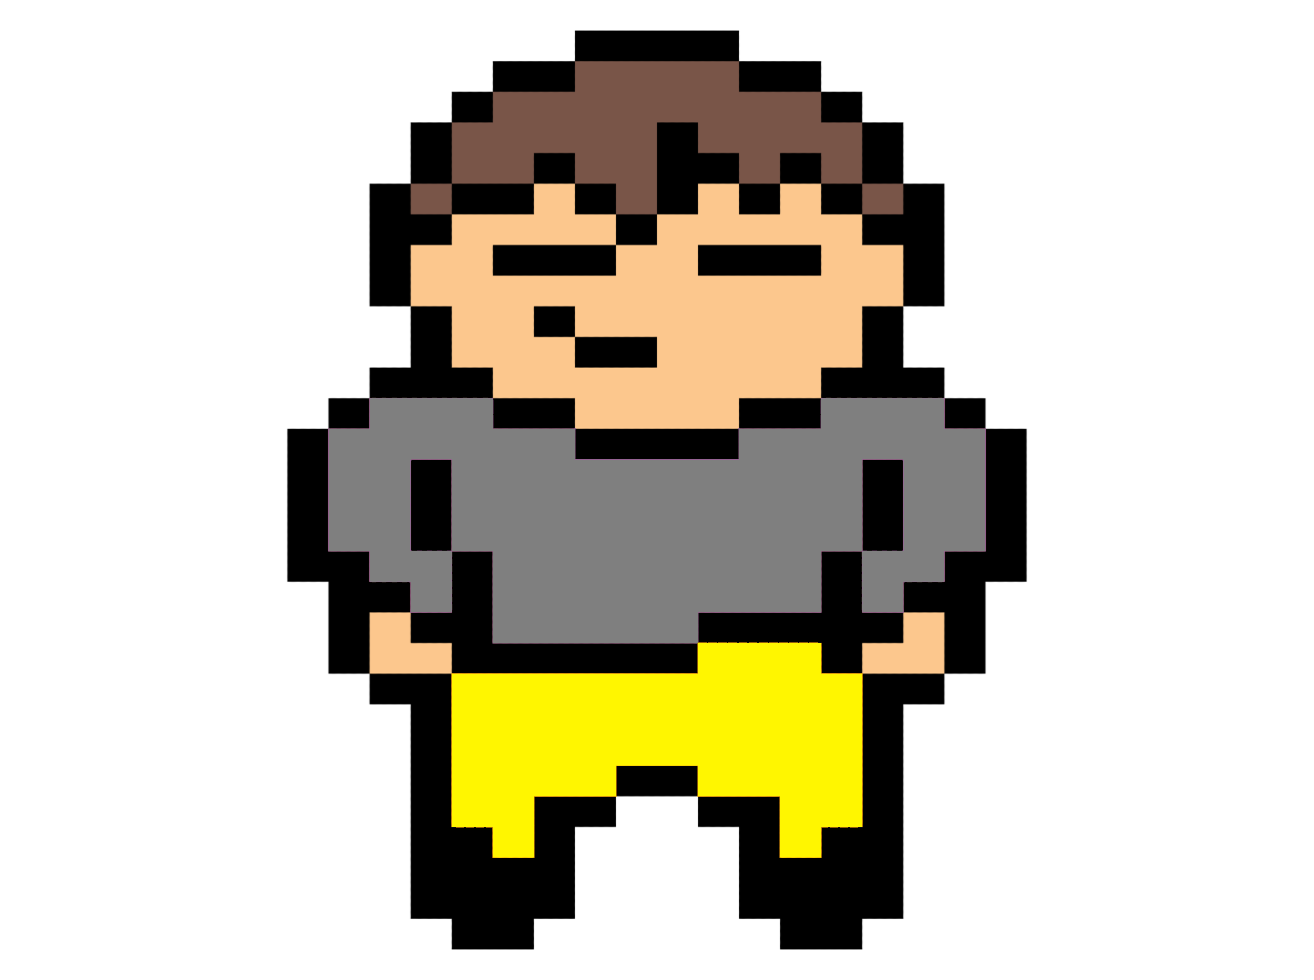
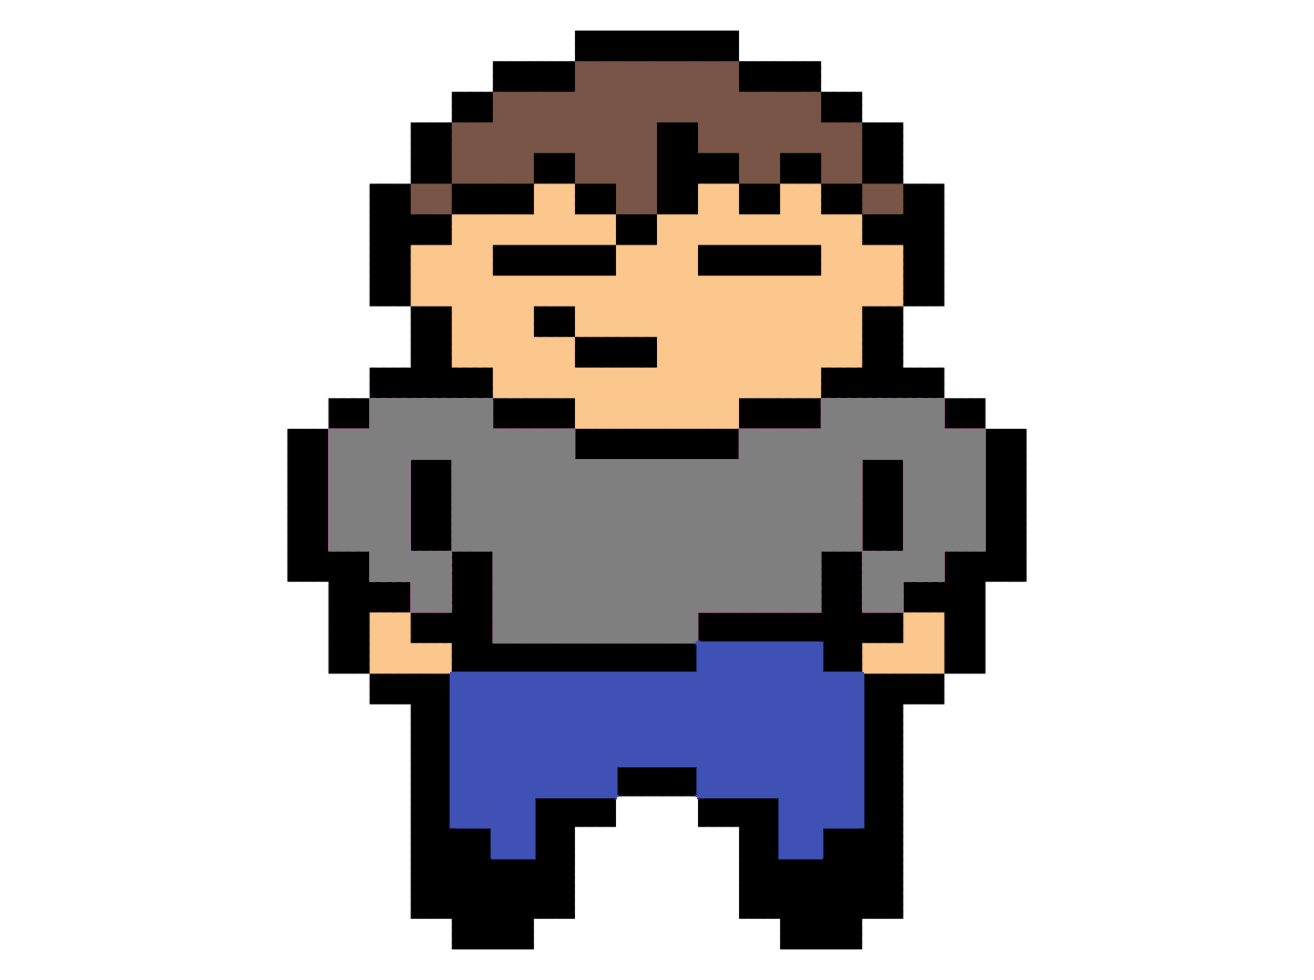
Npc + objetos

Changed region(s): [[0.3432, 0.6429, 0.6553, 0.8878]]

diff --git a/spain/js/js.js b/spain/js/js.js
@@ -275,7 +275,7 @@ document.addEventListener('keydown', function(event) {
 
     function handleMovement3(newRow,newCol){
         if (isValidMove(newRow, newCol)) {
-            if (gameMap[newRow][newCol] === 5) {
+            if (gameMap[newRow][newCol] === 10) {
                 if (hasReloj) {
                     hasReloj = false;
                     missio2 = true;
@@ -459,28 +459,29 @@ document.addEventListener('keydown', function(event) {
 
     createGrid(numCols);
 
-    /*----------------------------------MATRIUS----------------------------------------------*/
+/*----------------------------------MATRIU----------------------------------------------*/
 
+    /* 4-6-9 (personas extra) / 3-5-8 (personas) / 2-7-10 (objectes)*/
     let gameMap = [
-        [1, 1, 0, 1, 1, 1, 1, 1, 0, 1, 1, 1, 1, 0, 1, 1, 1, 1, 1, 0, 1, 1, 1, 1, 0, 1, 1, 1, 1, 1, 0, 1, 1],
-        [1, 1, 0, 1, 1, 1, 1, 1, 0, 0, 0, 0, 0, 0, 1, 1, 1, 1, 1, 0, 0, 0, 0, 0, 0, 1, 1, 1, 1, 1, 0, 0, 1],
+        [1, 1, 0, 1, 1, 1, 1, 1, 0, 1, 1, 1, 1, 9, 1, 1, 1, 1, 1, 4, 1, 1, 1, 1, 6, 1, 1, 1, 1, 1, 0, 1, 1],
+        [1, 1, 0, 1, 1, 1, 1, 1, 0, 0, 4, 0, 0, 0, 1, 1, 1, 1, 1, 0, 0, 0, 0, 0, 0, 1, 1, 1, 1, 1, 0, 0, 1],
         [1, 0, 0, 1, 1, 1, 1, 1, 0, 1, 1, 1, 1, 0, 1, 1, 1, 1, 1, 0, 1, 1, 1, 1, 0, 1, 1, 1, 1, 1, 0, 1, 1],
-        [1, 1, 1, 1, 1, 1, 1, 1, 0, 1, 1, 1, 1, 0, 1, 1, 1, 1, 1, 0, 1, 1, 1, 1, 4, 1, 1, 1, 1, 1, 0, 1, 1],
-        [1, 1, 0, 0, 0, 0, 0, 0, 0, 1, 1, 1, 1, 4, 0, 0, 0, 0, 0, 0, 1, 1, 1, 1, 0, 0, 0, 0, 0, 0, 0, 1, 1],
+        [1, 1, 1, 1, 1, 1, 1, 1, 0, 1, 1, 1, 1, 0, 1, 1, 1, 1, 1, 0, 1, 1, 1, 1, 0, 1, 1, 1, 1, 1, 9, 1, 1],
+        [1, 1, 0, 0, 0, 0, 0, 0, 0, 1, 1, 1, 1, 0, 0, 0, 0, 0, 0, 0, 1, 1, 1, 1, 0, 0, 0, 0, 0, 0, 0, 1, 1],
         [1, 1, 0, 1, 1, 1, 1, 1, 0, 1, 1, 1, 1, 0, 1, 1, 1, 1, 1, 0, 1, 1, 1, 1, 0, 1, 1, 1, 1, 1, 0, 1, 1],
         [1, 1, 0, 1, 1, 1, 1, 1, 0, 1, 1, 1, 1, 0, 1, 1, 1, 1, 1, 0, 1, 1, 1, 1, 0, 1, 1, 1, 1, 1, 0, 1, 1],
-        [1, 0, 0, 1, 1, 1, 1, 1, 2, 0, 0, 0, 0, 0, 1, 1, 1, 1, 1, 4, 0, 0, 0, 0, 0, 1, 1, 1, 1, 1, 0, 0, 1],
-        [1, 1, 0, 1, 1, 1, 1, 1, 0, 1, 1, 1, 1, 3, 1, 1, 1, 1, 1, 0, 1, 1, 1, 1, 0, 1, 1, 1, 1, 1, 0, 1, 1],
-        [1, 1, 0, 1, 1, 1, 1, 1, 0, 1, 1, 1, 1, 0, 1, 1, 1, 1, 1, 0, 1, 1, 1, 1, 0, 1, 1, 1, 1, 1, 6, 1, 1],
-        [1, 1, 0, 1, 1, 1, 1, 1, 0, 1, 1, 1, 1, 0, 1, 1, 1, 1, 1, 6, 1, 1, 1, 1, 0, 1, 1, 1, 1, 1, 0, 1, 1],
+        [1, 4, 0, 1, 1, 1, 1, 1, 2, 0, 0, 0, 0, 0, 1, 1, 1, 1, 1, 0, 0, 0, 9, 0, 0, 1, 1, 1, 1, 1, 0, 0, 1],
         [1, 1, 0, 1, 1, 1, 1, 1, 0, 1, 1, 1, 1, 0, 1, 1, 1, 1, 1, 0, 1, 1, 1, 1, 0, 1, 1, 1, 1, 1, 0, 1, 1],
-        [1, 9, 0, 1, 1, 1, 1, 1, 0, 0, 0, 0, 0, 0, 0, 5, 0, 0, 0, 0, 7, 0, 0, 0, 0, 1, 1, 1, 1, 1, 0, 0, 1],
+        [1, 1, 0, 1, 1, 1, 1, 1, 0, 1, 1, 1, 1, 9, 1, 1, 1, 1, 1, 0, 1, 1, 1, 1, 0, 1, 1, 1, 1, 1, 0, 1, 1],
+        [1, 1, 0, 1, 1, 1, 1, 1, 6, 1, 1, 1, 1, 0, 1, 1, 1, 1, 1, 0, 1, 1, 1, 1, 0, 1, 1, 1, 1, 1, 4, 1, 1],
+        [1, 1, 0, 1, 1, 1, 1, 1, 0, 1, 1, 1, 1, 0, 1, 1, 1, 1, 1, 0, 1, 1, 1, 1, 0, 1, 1, 1, 1, 1, 0, 1, 1],
+        [1, 9, 0, 1, 1, 1, 1, 1, 0, 0, 0, 0, 0, 0, 0, 0, 0, 0, 0, 0, 0, 4, 0, 0, 0, 1, 1, 1, 1, 1, 0, 0, 1],
         [1, 1, 0, 1, 1, 1, 1, 1, 0, 1, 1, 1, 1, 1, 1, 1, 0, 1, 1, 1, 1, 1, 1, 1, 0, 1, 1, 1, 1, 1, 0, 1, 1],
-        [1, 1, 0, 1, 1, 1, 1, 1, 0, 1, 1, 1, 1, 1, 1, 1, 0, 1, 1, 1, 1, 1, 1, 1, 0, 1, 1, 1, 1, 1, 0, 1, 1],
-        [1, 1, 0, 0, 0, 8, 0, 0, 0, 1, 1, 1, 1, 1, 1, 1, 0, 1, 1, 1, 1, 1, 1, 1, 10, 0, 0, 0, 0, 0, 0, 1, 1],
-        [1, 1, 0, 1, 1, 1, 1, 1, 1, 1, 1, 1, 1, 1, 1, 1, 0, 1, 1, 1, 1, 1, 1, 1, 0, 1, 1, 1, 1, 1, 1, 1, 1],
-        [1, 1, 4, 1, 1, 1, 1, 1, 1, 1, 1, 1, 1, 1, 1, 1, 0, 1, 1, 1, 1, 1, 1, 1, 0, 1, 1, 1, 1, 1, 1, 1, 1],
-        [1, 0, 0, 1, 1, 1, 1, 1, 0, 0, 0, 0, 0, 0, 9, 0, 0, 0, 0, 0, 0, 0, 0, 0, 0, 1, 1, 1, 1, 1, 0, 0, 1],
+        [1, 1, 0, 1, 1, 1, 1, 1, 0, 1, 1, 1, 1, 1, 1, 1, 0, 1, 1, 1, 1, 1, 1, 1, 6, 1, 1, 1, 1, 1, 0, 1, 1],
+        [1, 1, 0, 0, 0, 4, 0, 0, 0, 1, 1, 1, 1, 1, 1, 1, 0, 1, 1, 1, 1, 1, 1, 1, 0, 0, 0, 0, 0, 0, 0, 1, 1],
+        [1, 1, 0, 1, 1, 1, 1, 1, 0, 1, 1, 1, 1, 1, 1, 1, 0, 1, 1, 1, 1, 1, 1, 1, 0, 1, 1, 1, 1, 1, 1, 1, 1],
+        [1, 1, 6, 1, 1, 1, 1, 1, 9, 1, 1, 1, 1, 1, 1, 1, 0, 1, 1, 1, 1, 1, 1, 1, 0, 1, 1, 1, 1, 1, 1, 1, 1],
+        [1, 0, 0, 1, 1, 1, 1, 1, 0, 6, 0, 0, 0, 0, 0, 0, 0, 0, 0, 0, 9, 0, 0, 0, 0, 1, 1, 1, 1, 1, 0, 0, 1],
         [1, 1, 0, 1, 1, 1, 1, 1, 0, 1, 1, 1, 1, 0, 1, 1, 1, 1, 1, 0, 1, 1, 1, 1, 0, 1, 1, 1, 1, 1, 0, 1, 1],
         [1, 1, 1, 1, 1, 1, 1, 1, 1, 1, 1, 1, 1, 1, 1, 1, 1, 1, 1, 1, 1, 1, 1, 1, 1, 1, 1, 1, 1, 1, 1, 1, 1]
     ];

diff --git a/spain/index.html b/spain/index.html
@@ -10,17 +10,21 @@
     <script src="https://ajax.googleapis.com/ajax/libs/jquery/3.1.1/jquery.min.js"></script>
 </head>
 <body>
+    
     <div id="fondo"></div>
     <div id="timer">Temps restant: <br><span id="countdown">2:00</span></div>
     <div id="salir"><button class="botonSalir">SALIR</button></div>
-    <div id="modal-bienvenida" class="modal">
-        <div class="modal-content">
-            <span class="close" id="close-bienvenida">&times;</span>
-            <p id="titulo-binvenida">Benvingut/da a Barcelona</p>
-            <p id="texto-presentacion">En aquest joc hauràs de seguir uns certs encàrrecs per poder recollir el màxim de diners que es pugui en un cert temps per començar l'aventura de la Laia,
-                a partir d'ara tindras 10 segons per memoritzar la tasca que s'assginara.<br>Enrecordat be!</p> 
+    <div id="div-presentacio">
+        <div id="modal-bienvenida" class="modal">
+            <div class="modal-content">
+                <span class="close" id="close-bienvenida">&times;</span>
+                <p id="titulo-binvenida">Benvingut/da a Barcelona</p>
+                <p id="texto-presentacion">En aquest joc hauràs de seguir uns certs encàrrecs per poder recollir els diners necessaris perque la Laia pugui començar aquesta aventura,
+                    a partir d'ara tindras 10 segons per memoritzar la tasca que s'assginara.<br>Enrecordat be!</p> 
+            </div>
         </div>
     </div>
+    
     <div id="modal-post-bienvenida" class="modal">
         <div class="modal-content-missio">
             <span class="close" id="close-post-bienvenida">&times;</span>

diff --git a/spain/style/css.css b/spain/style/css.css
@@ -8,6 +8,17 @@ html{
     font-family: pixel;
 }
 
+#presentacio{
+    z-index: 999;
+    top: 10px;
+}
+
+#laia-presentacion{
+    width: 200px;
+    height: 270px;
+    right: 20px;
+}
+
 #titulo-binvenida{
     font-size: xx-large;
 }
